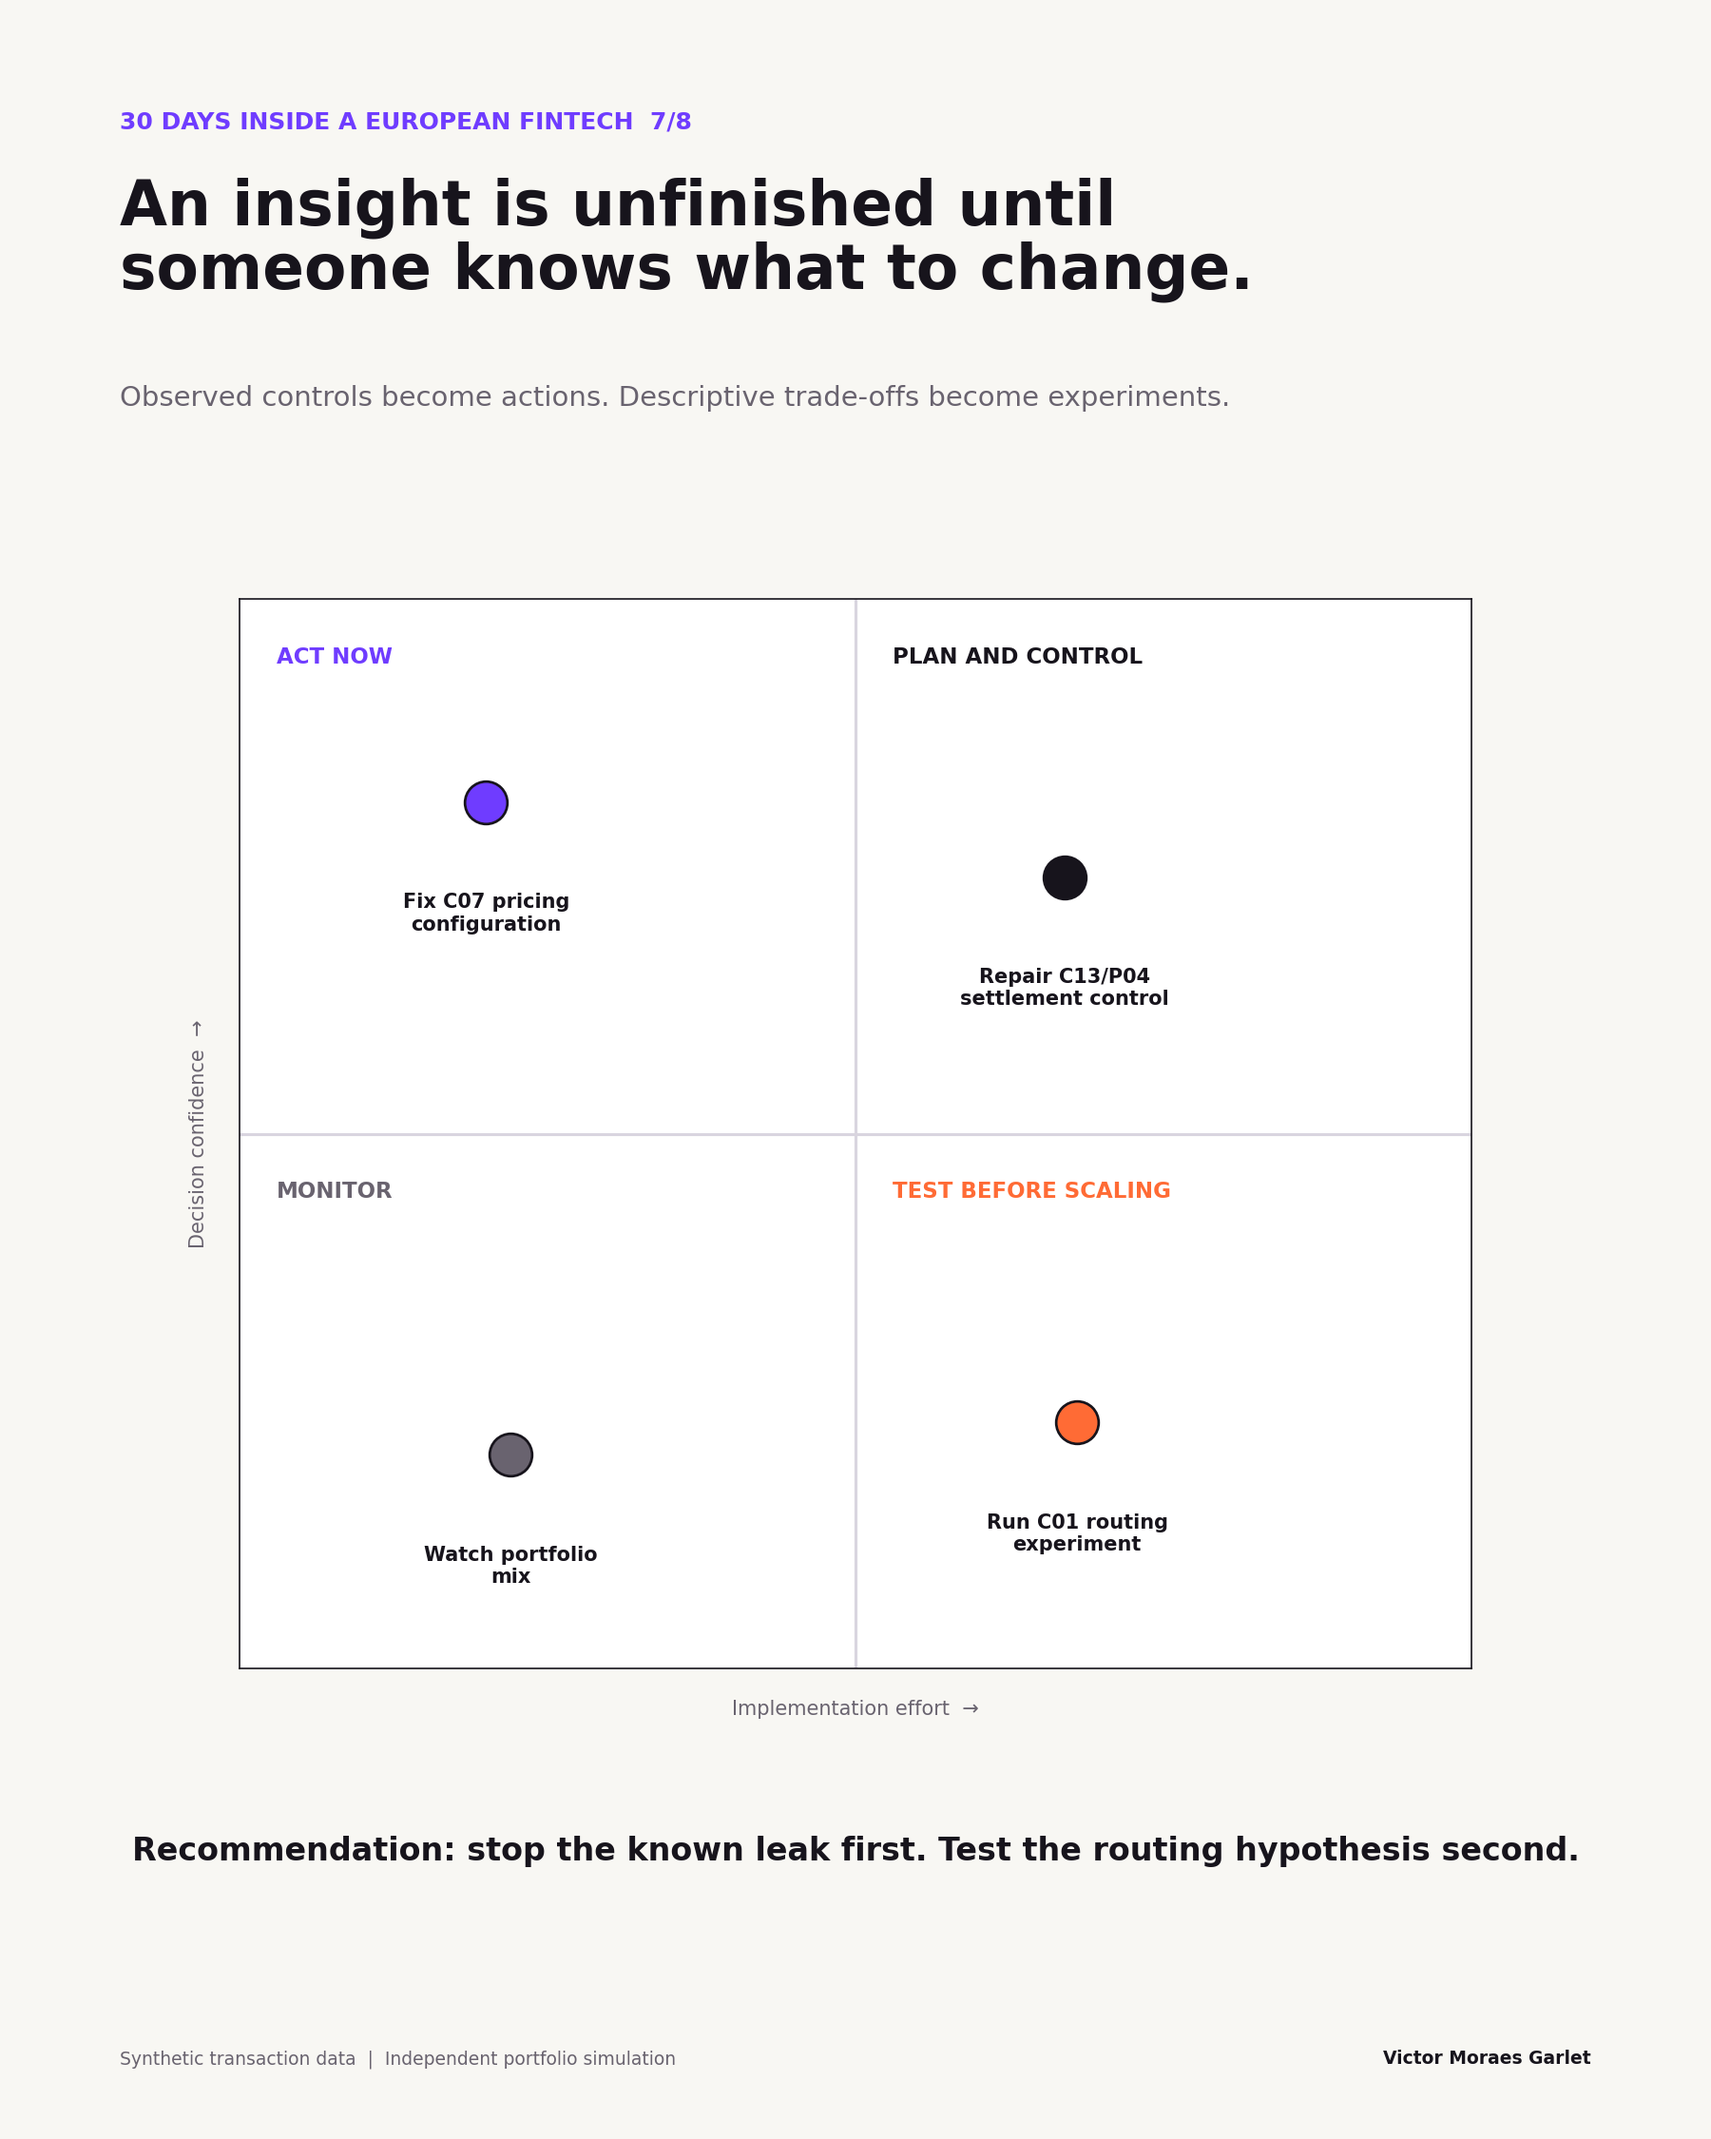
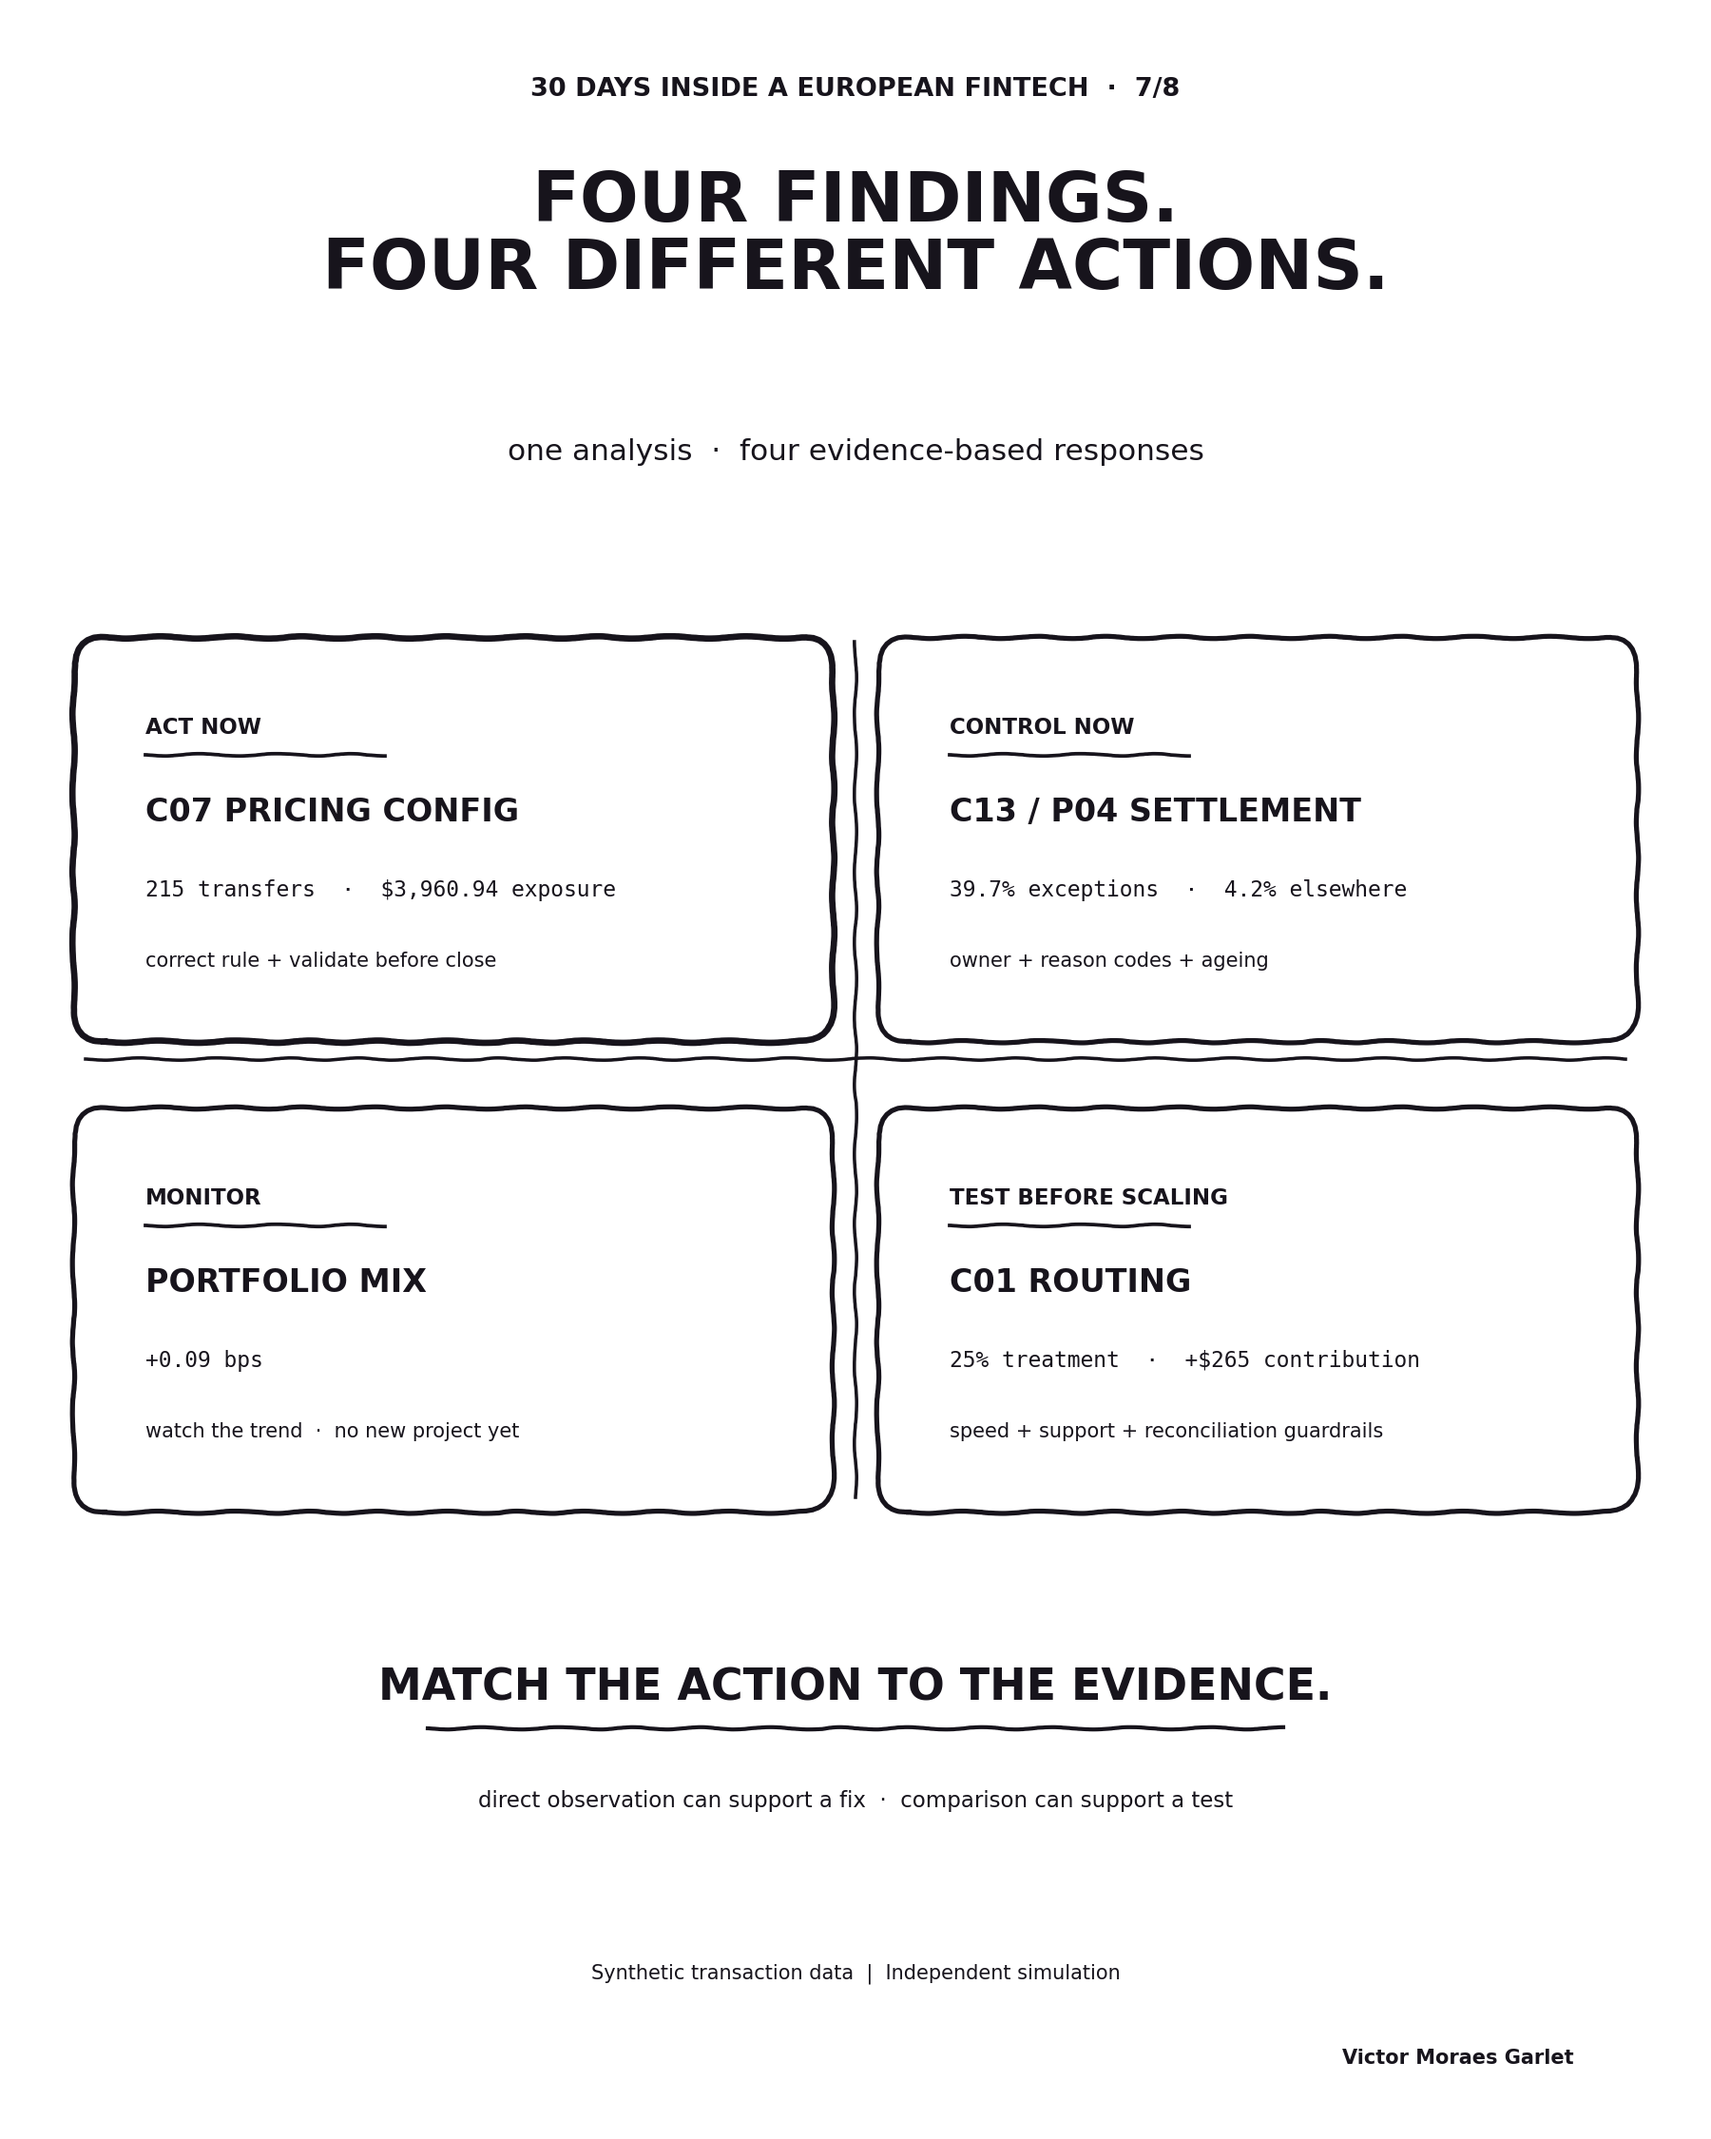
Approve and schedule episode 7

diff --git a/scripts/build_visuals.py b/scripts/build_visuals.py
@@ -544,36 +544,55 @@ def build_episode_06(connection):
 
 
 def build_episode_07():
-    fig, ax = base_figure(
-        7,
-        "An insight is unfinished until\nsomeone knows what to change.",
-        "Observed controls become actions. Descriptive trade-offs become experiments.",
-    )
-    matrix = fig.add_axes((0.14, 0.22, 0.72, 0.50), facecolor=WHITE)
-    matrix.set_xlim(0, 10)
-    matrix.set_ylim(0, 10)
-    matrix.spines[:].set_color(INK)
-    matrix.axvline(5, color=LINE, linewidth=1.5)
-    matrix.axhline(5, color=LINE, linewidth=1.5)
-    matrix.set_xticks([])
-    matrix.set_yticks([])
-    matrix.set_xlabel("Implementation effort  →", color=MUTED, labelpad=16)
-    matrix.set_ylabel("Decision confidence  →", color=MUTED, labelpad=16)
-    matrix.text(0.3, 9.4, "ACT NOW", color=PURPLE, fontsize=11, fontweight="bold")
-    matrix.text(5.3, 9.4, "PLAN AND CONTROL", color=INK, fontsize=11, fontweight="bold")
-    matrix.text(0.3, 4.4, "MONITOR", color=MUTED, fontsize=11, fontweight="bold")
-    matrix.text(5.3, 4.4, "TEST BEFORE SCALING", color=ORANGE, fontsize=11, fontweight="bold")
+    fig = plt.figure(figsize=(12, 15), facecolor=WHITE)
+    ax = fig.add_axes((0, 0, 1, 1))
+    ax.set_xlim(0, 1)
+    ax.set_ylim(0, 1)
+    ax.axis("off")
 
-    actions = [
-        (2.0, 8.1, "Fix C07 pricing\nconfiguration", PURPLE),
-        (6.7, 7.4, "Repair C13/P04\nsettlement control", INK),
-        (6.8, 2.3, "Run C01 routing\nexperiment", ORANGE),
-        (2.2, 2.0, "Watch portfolio\nmix", MUTED),
+    def rough_card(x, y, width, height, linewidth=2.5):
+        patch = FancyBboxPatch(
+            (x, y),
+            width,
+            height,
+            boxstyle="round,pad=0.012,rounding_size=0.018",
+            linewidth=linewidth,
+            edgecolor=INK,
+            facecolor=WHITE,
+        )
+        patch.set_sketch_params(scale=1.2, length=90, randomness=2.5)
+        ax.add_patch(patch)
+
+    def rough_line(xs, ys, linewidth=2.2):
+        line, = ax.plot(xs, ys, color=INK, linewidth=linewidth)
+        line.set_sketch_params(scale=1.2, length=90, randomness=2.5)
+
+    fig.text(0.50, 0.955, "30 DAYS INSIDE A EUROPEAN FINTECH  ·  7/8", ha="center", color=INK, fontsize=13, fontweight="bold")
+    fig.text(0.50, 0.865, "FOUR FINDINGS.\nFOUR DIFFERENT ACTIONS.", ha="center", color=INK, fontsize=35, fontweight="bold", linespacing=1.0)
+    fig.text(0.50, 0.785, "one analysis  ·  four evidence-based responses", ha="center", color=INK, fontsize=15)
+
+    cards = [
+        (0.055, 0.525, "ACT NOW", "C07 PRICING CONFIG", "215 transfers  ·  $3,960.94 exposure", "correct rule + validate before close"),
+        (0.525, 0.525, "CONTROL NOW", "C13 / P04 SETTLEMENT", "39.7% exceptions  ·  4.2% elsewhere", "owner + reason codes + ageing"),
+        (0.055, 0.305, "MONITOR", "PORTFOLIO MIX", "+0.09 bps", "watch the trend  ·  no new project yet"),
+        (0.525, 0.305, "TEST BEFORE SCALING", "C01 ROUTING", "25% treatment  ·  +$265 contribution", "speed + support + reconciliation guardrails"),
     ]
-    for x, y, label, color in actions:
-        matrix.scatter(x, y, s=460, color=color, edgecolor=INK, linewidth=1.3, zorder=3)
-        matrix.text(x, y - 0.85, label, ha="center", va="top", fontsize=10, color=INK, fontweight="bold")
-    fig.text(0.50, 0.13, "Recommendation: stop the known leak first. Test the routing hypothesis second.", ha="center", color=INK, fontsize=16, fontweight="bold")
+    for index, (x, y, action, finding, evidence, response) in enumerate(cards):
+        rough_card(x, y, 0.42, 0.165, 3.2 if index == 0 else 2.5)
+        ax.text(x + 0.03, y + 0.132, action, ha="left", color=INK, fontsize=11, fontweight="bold")
+        rough_line([x + 0.03, x + 0.17], [y + 0.122, y + 0.122], 1.8)
+        ax.text(x + 0.03, y + 0.091, finding, ha="left", color=INK, fontsize=16, fontweight="bold")
+        ax.text(x + 0.03, y + 0.056, evidence, ha="left", color=INK, fontsize=11, family="monospace")
+        ax.text(x + 0.03, y + 0.023, response, ha="left", color=INK, fontsize=10)
+
+    rough_line([0.50, 0.50], [0.30, 0.70], 1.7)
+    rough_line([0.05, 0.95], [0.505, 0.505], 1.7)
+
+    ax.text(0.50, 0.205, "MATCH THE ACTION TO THE EVIDENCE.", ha="center", color=INK, fontsize=22, fontweight="bold")
+    rough_line([0.25, 0.75], [0.192, 0.192], 2.0)
+    ax.text(0.50, 0.155, "direct observation can support a fix  ·  comparison can support a test", ha="center", color=INK, fontsize=11)
+    fig.text(0.50, 0.075, "Synthetic transaction data  |  Independent simulation", ha="center", color=INK, fontsize=10)
+    fig.text(0.92, 0.035, "Victor Moraes Garlet", ha="right", color=INK, fontsize=10, fontweight="bold")
     save(fig, "episode_07_decision_matrix.png")
 
 

diff --git a/tests/test_public_content.py b/tests/test_public_content.py
@@ -37,7 +37,7 @@ class PublicContentTestCase(unittest.TestCase):
 
     def test_editorial_calendar_tracks_release_status(self):
         calendar = (PROJECT_ROOT / "content" / "editorial_calendar.md").read_text(encoding="utf-8")
-        self.assertEqual(calendar.count("Hold for approval"), 2)
+        self.assertEqual(calendar.count("Hold for approval"), 1)
         self.assertIn(
             "| 5 | Tue, 13 Oct 2026 | Decompose the take-rate movement | Waterfall | Scheduled for 08:00 Europe/Dublin |",
             calendar,
@@ -60,6 +60,10 @@ class PublicContentTestCase(unittest.TestCase):
         )
         self.assertIn(
             "| 6 | Fri, 16 Oct 2026 | Evaluate speed, cost and support | Trade-off chart | Scheduled for 08:00 Europe/Dublin |",
+            calendar,
+        )
+        self.assertIn(
+            "| 7 | Tue, 20 Oct 2026 | Convert findings into actions and a test | Decision matrix | Scheduled for 08:00 Europe/Dublin |",
             calendar,
         )
 

diff --git a/content/posts/episode_07.md b/content/posts/episode_07.md
@@ -1,40 +1,64 @@
 # Episode 7: Turn findings into actions
 
-**Status:** Draft for approval  
+**Status:** Scheduled for Tue, 20 Oct 2026 at 08:00 Europe/Dublin
 **Visual:** `content/visuals/episode_07_decision_matrix.png`
 
 ## Post copy
+
+I finished the analysis with four findings.
+
+Only one was ready for an immediate fix.
 
 **30 Days Inside a European Fintech [7/8]**
 
 I'm using Wise's public disclosures and synthetic data to simulate how a Senior Data Analyst could work through a fintech problem from question to decision.
 
-At this point, I had three findings with different levels of confidence.
+After six episodes, the work needed a decision order, not another chart.
 
-Treating them as one recommendation would have been a mistake.
+I placed each finding on a matrix using decision confidence and implementation effort.
 
-The decision matrix separated them by confidence and implementation effort.
+That produced four actions.
 
-Act now:
+ACT NOW
 
-Fix the C07 business pricing configuration. The $3,960.94 leakage is directly observed in the fee records, concentrated and traceable.
+Correct the C07 business pricing configuration and add an expected-versus-collected fee check before daily close.
 
-Plan and control:
+The issue affected 215 transfers and created $3,960.94 of synthetic exposure. The records make it traceable, but recovery still depends on the commercial terms and a record-level review.
 
-Repair the C13/P04 settlement workflow. A 39.7% exception rate and clear reason codes provide enough evidence to assign an owner and introduce ageing controls.
+CONTROL NOW
 
-Test before scaling:
+Assign an owner to the C13/P04 settlement route and track amount mismatches, late settlements and missing settlements separately.
 
-Run a controlled C01 routing experiment. A 25% planning scenario estimates $315.28 lower provider cost and $265.44 higher contribution proxy. It also estimates a 2.77 pp decline in instant rate and a 0.64 pp increase in support-contact rate.
+Its exception rate reached 39.7%, compared with 4.2% elsewhere. Stronger controls are justified. Blaming the provider is not, because the root cause is still unproven.
 
-Those scenario numbers are not a forecast. They use observed route averages and help size the decision.
+TEST BEFORE SCALING
 
-For the experiment, I would use contribution per unit of volume as the primary metric, then stop or narrow the treatment if speed, support or reconciliation breaches a pre-agreed guardrail.
+Run a controlled C01 routing experiment on eligible, non-urgent transfers.
 
-This is where I think senior analytical work becomes visible: the output is not another insight. It is a clear distinction between what the business should fix, what it should monitor and what it still needs to learn.
+A 25% planning scenario estimates $315.28 lower provider cost and $265.44 higher contribution margin proxy. It also estimates a 2.77 percentage-point decline in instant delivery and a 0.64 percentage-point increase in support contacts.
 
-Quick glossary  
-*Planning scenario = an estimate used to size a decision, not a causal prediction.  
-*Treatment = the group exposed to the proposed change in an experiment.
+Those numbers size the decision. They do not predict the result.
 
-This is an independent simulation inspired by Wise's public disclosures. I am not affiliated with Wise. All transaction-level data and project findings are synthetic; any company-level figures are sourced from public reports.
+Contribution per unit of volume would be the primary metric, with speed, support and reconciliation as guardrails. I would scale only if contribution improved and every guardrail held.
+
+MONITOR
+
+Keep portfolio mix visible, but do not open another project for a +0.09 bps movement unless it persists or hides a segment-level change.
+
+The matrix matched each finding to an action the evidence could support.
+
+A directly observed configuration failure can justify a fix. An observational comparison can justify an experiment. It cannot justify moving production traffic on its own.
+
+The same analytical pack can contain a defect, a control risk, a hypothesis and a movement that only needs monitoring. Sending all four out as recommendations would create false certainty.
+
+Next, I will turn this work into a one-page leadership recommendation with the decision, owners, controls, experiment and unresolved risks.
+
+Quick glossary
+
+*Planning scenario = an estimate used to size a decision, not a causal prediction.
+
+*Contribution margin proxy = collected fee minus provider cost and estimated support cost in this simulation.
+
+*Guardrail = a metric that must stay within an agreed limit while a test is running.
+
+Disclosure: This is an independent simulation inspired by Wise's public disclosures. I am not affiliated with Wise. All transaction-level data and project findings are synthetic; any company-level figures are sourced from public reports.

diff --git a/content/editorial_calendar.md b/content/editorial_calendar.md
@@ -6,7 +6,7 @@ Publish twice per week, Tuesday and Friday at 08:00 Europe/Dublin.
 
 The technical project can be completed in one sprint. The public story benefits from four weeks because each post has time to circulate, collect discussion and lead naturally into the next decision.
 
-Episodes 1–6 are scheduled. Episodes 7–8 remain on hold for review and approval.
+Episodes 1–7 are scheduled. Episode 8 remains on hold for review and approval.
 
 | Episode | Date | Role in the series | Visual | Status |
 | --- | --- | --- | --- | --- |
@@ -16,7 +16,7 @@ Episodes 1–6 are scheduled. Episodes 7–8 remain on hold for review and appro
 | 4 | Fri, 9 Oct 2026 | Isolate the settlement hotspot | Exception-rate comparison | Scheduled for 08:00 Europe/Dublin |
 | 5 | Tue, 13 Oct 2026 | Decompose the take-rate movement | Waterfall | Scheduled for 08:00 Europe/Dublin |
 | 6 | Fri, 16 Oct 2026 | Evaluate speed, cost and support | Trade-off chart | Scheduled for 08:00 Europe/Dublin |
-| 7 | Tue, 20 Oct 2026 | Convert findings into actions and a test | Decision matrix | Hold for approval |
+| 7 | Tue, 20 Oct 2026 | Convert findings into actions and a test | Decision matrix | Scheduled for 08:00 Europe/Dublin |
 | 8 | Fri, 23 Oct 2026 | Present the final leadership recommendation | Executive decision page | Hold for approval |
 
 ## Publishing checklist
